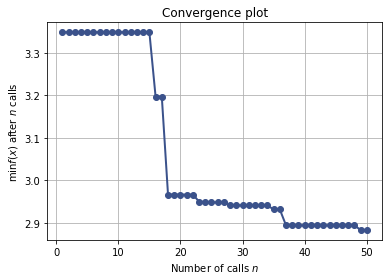
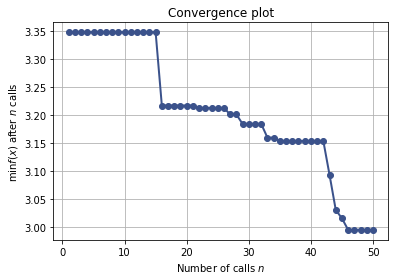
Pushing the docs for revision for branch: master, commit 805fa60a5d663782e021f3c1bf77f0c1f29e4cb4

diff --git a/notebooks/bayesian-optimization.html b/notebooks/bayesian-optimization.html
@@ -1275,13 +1275,13 @@ controlling the exploration-exploitation trade-off.
              n_restarts_optimizer=2, noise=0.010000000000000002,
              normalize_y=True, optimizer=&#39;fmin_l_bfgs_b&#39;,
              random_state=843828734)]
- random_state: &lt;mtrand.RandomState object at 0x7fe2c9926c18&gt;
+ random_state: &lt;mtrand.RandomState object at 0x7fb77a41b288&gt;
         space: Space([Real(low=-2.0, high=2.0, prior=&#39;uniform&#39;, transform=&#39;normalize&#39;)])
-        specs: {&#39;args&#39;: {&#39;n_jobs&#39;: 1, &#39;kappa&#39;: 1.96, &#39;xi&#39;: 0.01, &#39;n_restarts_optimizer&#39;: 5, &#39;n_points&#39;: 10000, &#39;callback&#39;: None, &#39;verbose&#39;: False, &#39;random_state&#39;: &lt;mtrand.RandomState object at 0x7fe2c9926c18&gt;, &#39;y0&#39;: None, &#39;x0&#39;: None, &#39;acq_optimizer&#39;: &#39;auto&#39;, &#39;acq_func&#39;: &#39;EI&#39;, &#39;n_random_starts&#39;: 5, &#39;n_calls&#39;: 15, &#39;base_estimator&#39;: GaussianProcessRegressor(alpha=1e-10, copy_X_train=True,
+        specs: {&#39;args&#39;: {&#39;n_jobs&#39;: 1, &#39;kappa&#39;: 1.96, &#39;xi&#39;: 0.01, &#39;n_restarts_optimizer&#39;: 5, &#39;n_points&#39;: 10000, &#39;callback&#39;: None, &#39;verbose&#39;: False, &#39;random_state&#39;: &lt;mtrand.RandomState object at 0x7fb77a41b288&gt;, &#39;y0&#39;: None, &#39;x0&#39;: None, &#39;acq_optimizer&#39;: &#39;auto&#39;, &#39;acq_func&#39;: &#39;EI&#39;, &#39;n_random_starts&#39;: 5, &#39;n_calls&#39;: 15, &#39;base_estimator&#39;: GaussianProcessRegressor(alpha=1e-10, copy_X_train=True,
              kernel=1**2 * Matern(length_scale=1, nu=2.5),
              n_restarts_optimizer=2, noise=0.010000000000000002,
              normalize_y=True, optimizer=&#39;fmin_l_bfgs_b&#39;,
-             random_state=843828734), &#39;dimensions&#39;: Space([Real(low=-2.0, high=2.0, prior=&#39;uniform&#39;, transform=&#39;normalize&#39;)]), &#39;func&#39;: &lt;function f at 0x7fe2d71d7bf8&gt;}, &#39;function&#39;: &#39;base_minimize&#39;}
+             random_state=843828734), &#39;dimensions&#39;: Space([Real(low=-2.0, high=2.0, prior=&#39;uniform&#39;, transform=&#39;normalize&#39;)]), &#39;func&#39;: &lt;function f at 0x7fb787c11bf8&gt;}, &#39;function&#39;: &#39;base_minimize&#39;}
             x: [-0.2572822321543613]
       x_iters: [[0.8518212820929092], [-0.2861162952526968], [0.7635394201074472], [0.8766012406190926], [-0.03552426626961047], [-0.30626086081540094], [-0.2572822321543613], [-0.2237896656292626], [1.0553495096977938], [-0.25562401679960356], [-0.5244265424397689], [-1.9992867763849413], [1.999866281741757], [-1.2339044799440428], [0.4596022272166356]]
 </pre></div>

diff --git a/index.html b/index.html
@@ -3533,7 +3533,7 @@ n_jobs</code>.</p>
 <span class="sd">        &quot;&quot;&quot;</span>
         <span class="bp">self</span><span class="o">.</span><span class="n">best_estimator_</span> <span class="o">=</span> <span class="n">clone</span><span class="p">(</span><span class="bp">self</span><span class="o">.</span><span class="n">estimator</span><span class="p">)</span>
         <span class="bp">self</span><span class="o">.</span><span class="n">best_estimator_</span><span class="o">.</span><span class="n">set_params</span><span class="p">(</span><span class="o">**</span><span class="bp">self</span><span class="o">.</span><span class="n">best_params_</span><span class="p">)</span>
-        <span class="bp">self</span><span class="o">.</span><span class="n">best_estimator_</span><span class="o">.</span><span class="n">fit</span><span class="p">(</span><span class="n">X</span><span class="p">,</span> <span class="n">y</span><span class="p">)</span>
+        <span class="bp">self</span><span class="o">.</span><span class="n">best_estimator_</span><span class="o">.</span><span class="n">fit</span><span class="p">(</span><span class="n">X</span><span class="p">,</span> <span class="n">y</span><span class="p">,</span> <span class="o">**</span><span class="p">(</span><span class="bp">self</span><span class="o">.</span><span class="n">fit_params</span> <span class="ow">or</span> <span class="p">{}))</span>
         <span class="k">return</span> <span class="bp">self</span>
 
     <span class="k">def</span> <span class="nf">_make_optimizer</span><span class="p">(</span><span class="bp">self</span><span class="p">,</span> <span class="n">params_space</span><span class="p">):</span>

diff --git a/notebooks/sklearn-gridsearchcv-replacement.html b/notebooks/sklearn-gridsearchcv-replacement.html
@@ -1211,8 +1211,12 @@ test score: 0.9822222222222222
 </pre></div>
 
 
-<div class="codehilite"><pre><span></span>val. score: 0.985894580549369
-test score: 0.9822222222222222
+<div class="codehilite"><pre><span></span>/home/ubuntu/scikit-optimize/skopt/optimizer/optimizer.py:399: UserWarning: The objective has been evaluated at this point before.
+  warnings.warn(&quot;The objective has been evaluated &quot;
+
+
+val. score: 0.991833704528582
+test score: 0.9933333333333333
 </pre></div>
 
 
@@ -1247,7 +1251,8 @@ test score: 0.9822222222222222
 </pre></div>
 
 
-<div class="codehilite"><pre><span></span>best score: 0.98
+<div class="codehilite"><pre><span></span>best score: 0.9333333333333333
+best score: 0.9866666666666667
 Interrupting!
 
 

diff --git a/notebooks/hyperparameter-optimization.html b/notebooks/hyperparameter-optimization.html
@@ -1183,7 +1183,7 @@ Katie Malone, August 2016</p>
 </pre></div>
 
 
-<div class="codehilite"><pre><span></span>&#39;Best score=2.8837&#39;
+<div class="codehilite"><pre><span></span>&#39;Best score=2.9947&#39;
 </pre></div>
 
 
@@ -1199,10 +1199,10 @@ Katie Malone, August 2016</p>
 
 
 <div class="codehilite"><pre><span></span>Best parameters:
-- max_depth=2
-- learning_rate=0.206858
+- max_depth=5
+- learning_rate=0.125136
 - max_features=13
-- min_samples_split=2
+- min_samples_split=100
 - min_samples_leaf=1
 </pre></div>
 

diff --git a/notebooks/ask-and-tell.html b/notebooks/ask-and-tell.html
@@ -1208,7 +1208,7 @@ optimizer:</p>
 <div class="codehilite"><pre><span></span>          fun: -0.032758350111535384
     func_vals: array([-0.03275835])
        models: []
- random_state: &lt;mtrand.RandomState object at 0x7fecc00d5090&gt;
+ random_state: &lt;mtrand.RandomState object at 0x7fcc6335e0d8&gt;
         space: Space([Real(low=-2.0, high=2.0, prior=&#39;uniform&#39;, transform=&#39;identity&#39;)])
         specs: None
             x: [-1.7121321838148869]

diff --git a/notebooks/bayesian-optimization.md b/notebooks/bayesian-optimization.md
@@ -176,13 +176,13 @@ print(res)
                  n_restarts_optimizer=2, noise=0.010000000000000002,
                  normalize_y=True, optimizer='fmin_l_bfgs_b',
                  random_state=843828734)]
-     random_state: <mtrand.RandomState object at 0x7fe2c9926c18>
+     random_state: <mtrand.RandomState object at 0x7fb77a41b288>
             space: Space([Real(low=-2.0, high=2.0, prior='uniform', transform='normalize')])
-            specs: {'args': {'n_jobs': 1, 'kappa': 1.96, 'xi': 0.01, 'n_restarts_optimizer': 5, 'n_points': 10000, 'callback': None, 'verbose': False, 'random_state': <mtrand.RandomState object at 0x7fe2c9926c18>, 'y0': None, 'x0': None, 'acq_optimizer': 'auto', 'acq_func': 'EI', 'n_random_starts': 5, 'n_calls': 15, 'base_estimator': GaussianProcessRegressor(alpha=1e-10, copy_X_train=True,
+            specs: {'args': {'n_jobs': 1, 'kappa': 1.96, 'xi': 0.01, 'n_restarts_optimizer': 5, 'n_points': 10000, 'callback': None, 'verbose': False, 'random_state': <mtrand.RandomState object at 0x7fb77a41b288>, 'y0': None, 'x0': None, 'acq_optimizer': 'auto', 'acq_func': 'EI', 'n_random_starts': 5, 'n_calls': 15, 'base_estimator': GaussianProcessRegressor(alpha=1e-10, copy_X_train=True,
                  kernel=1**2 * Matern(length_scale=1, nu=2.5),
                  n_restarts_optimizer=2, noise=0.010000000000000002,
                  normalize_y=True, optimizer='fmin_l_bfgs_b',
-                 random_state=843828734), 'dimensions': Space([Real(low=-2.0, high=2.0, prior='uniform', transform='normalize')]), 'func': <function f at 0x7fe2d71d7bf8>}, 'function': 'base_minimize'}
+                 random_state=843828734), 'dimensions': Space([Real(low=-2.0, high=2.0, prior='uniform', transform='normalize')]), 'func': <function f at 0x7fb787c11bf8>}, 'function': 'base_minimize'}
                 x: [-0.2572822321543613]
           x_iters: [[0.8518212820929092], [-0.2861162952526968], [0.7635394201074472], [0.8766012406190926], [-0.03552426626961047], [-0.30626086081540094], [-0.2572822321543613], [-0.2237896656292626], [1.0553495096977938], [-0.25562401679960356], [-0.5244265424397689], [-1.9992867763849413], [1.999866281741757], [-1.2339044799440428], [0.4596022272166356]]
 

diff --git a/notebooks/sklearn-gridsearchcv-replacement.md b/notebooks/sklearn-gridsearchcv-replacement.md
@@ -104,8 +104,12 @@ print("val. score: %s" % opt.best_score_)
 print("test score: %s" % opt.score(X_test, y_test))
 ```
 
-    val. score: 0.985894580549369
-    test score: 0.9822222222222222
+    /home/ubuntu/scikit-optimize/skopt/optimizer/optimizer.py:399: UserWarning: The objective has been evaluated at this point before.
+      warnings.warn("The objective has been evaluated "
+
+
+    val. score: 0.991833704528582
+    test score: 0.9933333333333333
 
 
 ## Progress monitoring and control using `callback` argument of `fit` method
@@ -144,7 +148,8 @@ def on_step(optim_result):
 searchcv.fit(X, y, callback=on_step)
 ```
 
-    best score: 0.98
+    best score: 0.9333333333333333
+    best score: 0.9866666666666667
     Interrupting!
 
 

diff --git a/notebooks/ask-and-tell.md b/notebooks/ask-and-tell.md
@@ -112,7 +112,7 @@ opt.tell(next_x, f_val)
               fun: -0.032758350111535384
         func_vals: array([-0.03275835])
            models: []
-     random_state: <mtrand.RandomState object at 0x7fecc00d5090>
+     random_state: <mtrand.RandomState object at 0x7fcc6335e0d8>
             space: Space([Real(low=-2.0, high=2.0, prior='uniform', transform='identity')])
             specs: None
                 x: [-1.7121321838148869]

diff --git a/notebooks/hyperparameter-optimization.md b/notebooks/hyperparameter-optimization.md
@@ -82,7 +82,7 @@ res_gp = gp_minimize(objective, space, n_calls=50, random_state=0)
 
 
 
-    'Best score=2.8837'
+    'Best score=2.9947'
 
 
 
@@ -99,10 +99,10 @@ print("""Best parameters:
 ```
 
     Best parameters:
-    - max_depth=2
-    - learning_rate=0.206858
+    - max_depth=5
+    - learning_rate=0.125136
     - max_features=13
-    - min_samples_split=2
+    - min_samples_split=100
     - min_samples_leaf=1
 
 
